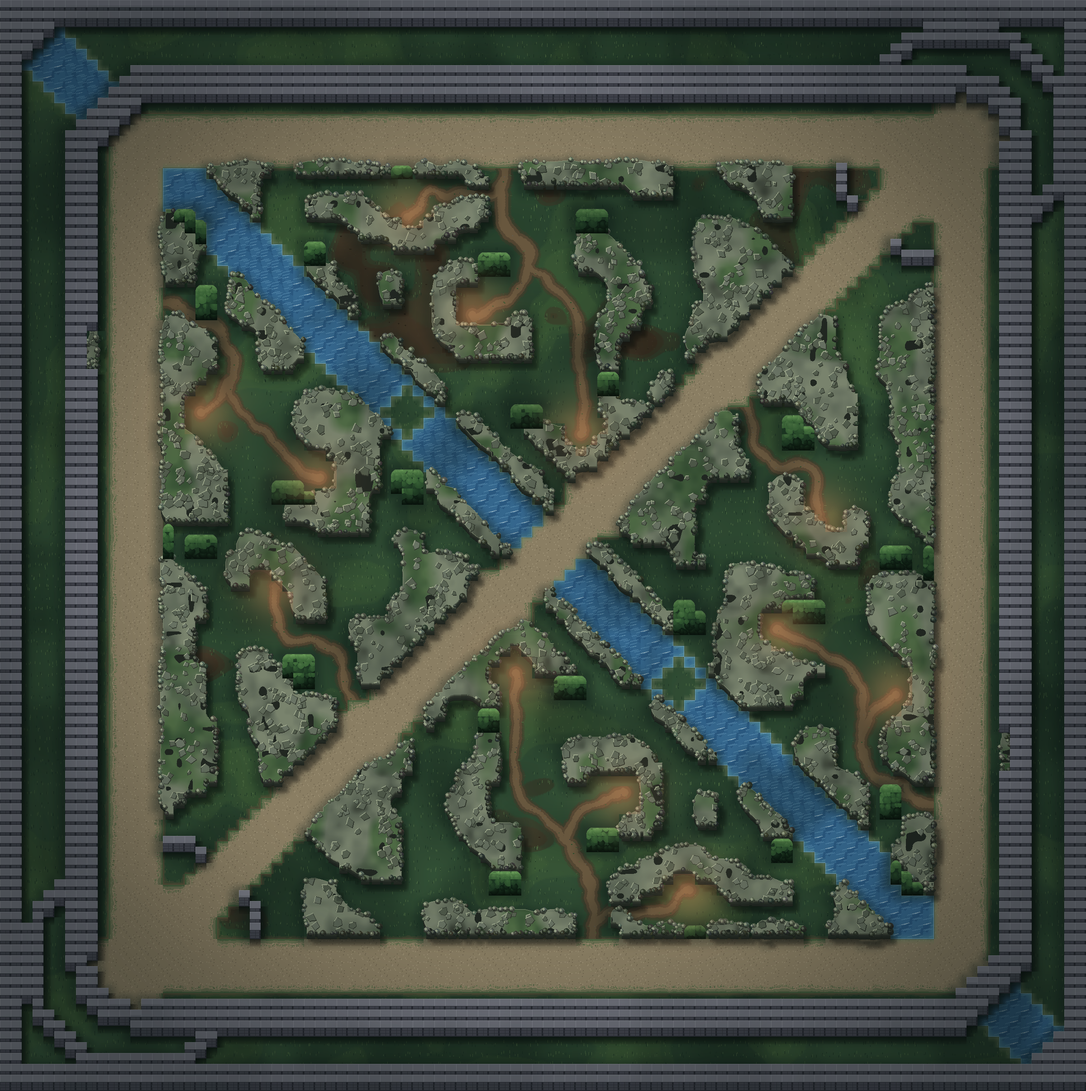
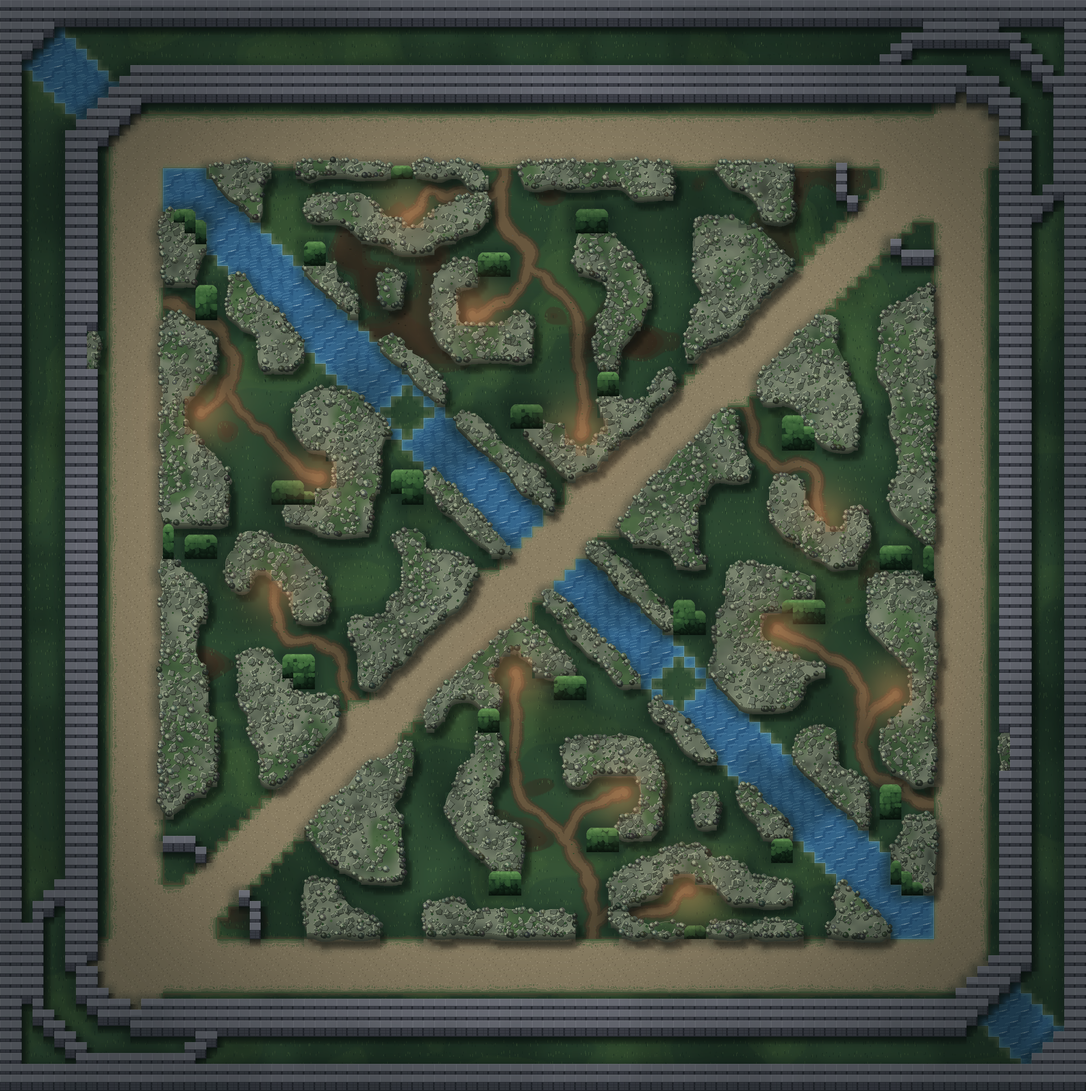
Muri di giungla: via le macchie nere, basi/bordi curvi, texture di roccia piu densa
Correzioni alla silhouette dei muri di giungla:
1. Campo della maschera da DISCHI sovrapposti sui centri-muro invece che dai
   quadrati dei tile -> niente spigoli di griglia: basi dei pilastri e bordi
   inferiori ora curvi, seguono la maschera.
2. Rumore di soglia applicato SOLO nella fascia di bordo (interno sempre pieno,
   esterno sempre vuoto) -> spariscono le macchie nere / fessure interne che
   sembravano buchi. Parete 2.5D e avvallamenti in tono di roccia, non neri;
   tolto il contatto nero (lo da gia il layer ombre).
3. Densita' della vecchia texture ripristinata: tante faccette spigolose
   (piatti + crepe), massi tondi in rilievo e fiocchi di muschio sulla cima.

La collisione resta sulla griglia (clamp a mezzo tile). Muro di confine in
pietra e cespugli invariati. Build 3v3 ~8s / 5v5 ~17s, RAM invariata.

Screenshot: screenshots/step_9.png (diagonale lungo il fiume) e step_9_over.png.

diff --git a/game/map_renderer.py b/game/map_renderer.py
@@ -532,20 +532,19 @@ class MapRenderer:
             return None
         s = max(2, ts // 4)
         hl = (H + s - 1) // s; wl = (W + s - 1) // s
-        cyl = np.minimum((np.arange(hl) * s) // ts, Ht - 1)
-        cxl = np.minimum((np.arange(wl) * s) // ts, Wt - 1)
-        sq = tm[cyl][:, cxl].astype(np.float32)          # quadrati (hl,wl)
-        # centri-muro a bassa risoluzione -> distanza (per blob tondi + clamp).
+        # Campo da DISCHI sui centri-muro (NON dai quadrati dei tile): l'unione
+        # di dischi sovrapposti non ha spigoli di griglia, cosi niente lati dritti
+        # residui (le basi dei pilastri e i bordi inferiori diventano curvi).
         ys, xs = np.where(tm)
         cmask = np.zeros((hl, wl), bool)
         ccx = np.clip(((xs + 0.5) * ts / s).astype(int), 0, wl - 1)
         ccy = np.clip(((ys + 0.5) * ts / s).astype(int), 0, hl - 1)
         cmask[ccy, ccx] = True
-        dist = self._dist_lo(cmask, int(math.ceil(ts * 1.1 / s)))
-        core = dist <= (ts * 0.40 / s)                   # sempre pieno (blob tondi)
-        allowed = dist <= (ts * 0.98 / s)                # sporgenza max ~mezzo tile
-        field = np.maximum(sq, core.astype(np.float32))
-        bf = self._sep_blur(field, max(1, int(ts * 0.6 / s)), passes=3)
+        dist = self._dist_lo(cmask, int(math.ceil(ts * 1.25 / s)))
+        disc = (dist <= (ts * 0.72 / s)).astype(np.float32)   # dischi uniti
+        core = dist <= (ts * 0.42 / s)                   # sempre pieno (blob tondi)
+        allowed = dist <= (ts * 1.0 / s)                 # sporgenza max ~mezzo tile
+        bf = self._sep_blur(disc, max(1, int(ts * 0.55 / s)), passes=3)
         # upscala bf a piena risoluzione (una volta), poi soglia+rumore a strisce.
         bf_full = self._upscale(bf, W, H, s)
         core_full = core[np.minimum(np.arange(H) // s, hl - 1)][:, np.minimum(np.arange(W) // s, wl - 1)]
@@ -557,7 +556,12 @@ class MapRenderer:
             y1 = min(H, y0 + STRIP)
             TYf = (np.arange(y0, y1, dtype=np.float32) / ts)[:, None]
             nz = _np_vnoise(TXf / 1.5 + 11.0, TYf / 1.5 + 7.0) - 0.5     # [-0.5,0.5]
-            thr = (bf_full[y0:y1] + nz * 0.33) > 0.5
+            b = bf_full[y0:y1]
+            # Rumore SOLO nella fascia di bordo: l'interno (b alto) resta SEMPRE
+            # pieno -> niente buchi/fessure nere dentro il muro; l'esterno (b
+            # basso) resta vuoto. Il contorno e' irregolare solo al bordo.
+            thr = np.where(b >= 0.80, True,
+                           np.where(b <= 0.22, False, (b + nz * 0.33) > 0.5))
             solid[y0:y1] = (thr | core_full[y0:y1]) & allow_full[y0:y1]
         return solid
 
@@ -592,8 +596,8 @@ class MapRenderer:
         (solo i blocchi con contenuto)."""
         import pygame.surfarray as sa
         from game.renderer import (JW_TOP, JW_TOP_HI, JW_TOP_SH, JW_MOSS,
-                                    JW_MOSS_DK, JW_CLIFF, JW_CLIFF_DK, JW_CLIFF_HI,
-                                    JW_HILITE, JW_RIM, JW_EDGE_SH, JW_CONTACT)
+                                    JW_MOSS_DK, JW_CLIFF, JW_CLIFF_HI,
+                                    JW_HILITE, JW_RIM, JW_EDGE_SH)
         ts = self.tile_size; top = self._top; Hh = self._H
         H, W = solid.shape
         Hf = H + Hh
@@ -607,11 +611,13 @@ class MapRenderer:
         # --- (1) CIMA: base roccia mottled + muschio, ritagliata alla sagoma ---
         TOPc = np.array(JW_TOP, np.float32); TOPhi = np.array(JW_TOP_HI, np.float32)
         TOPsh = np.array(JW_TOP_SH, np.float32); MOSSc = np.array(JW_MOSS, np.float32)
-        MOSSdk = np.array(JW_MOSS_DK, np.float32); CRACK = np.array(JW_CLIFF_DK, np.float32)
+        MOSSdk = np.array(JW_MOSS_DK, np.float32)
         top_surf = pygame.Surface((W, H), pygame.SRCALPHA)
         v3 = sa.pixels3d(top_surf)
         # Noise calcolato a BASSA risoluzione (STEP) e interpolato bilineare a
         # strisce (come _build_floor): stessa resa, molto piu veloce del per-pixel.
+        # Niente macchie scure "piene" (sembravano buchi): la base e' solo roccia
+        # chiaro/scuro + muschio; crepe e volume li danno le faccette (sotto).
         STEP = 4
         wl = W // STEP + 2; hl = H // STEP + 2
         TXl = (np.arange(wl, dtype=np.float32) * STEP / ts)[None, :]
@@ -619,14 +625,13 @@ class MapRenderer:
         mott_l = (_np_vnoise(TXl / 2.2, TYl / 2.2) * 0.6
                   + _np_vnoise(TXl / 0.8 + 5, TYl / 0.8 + 5) * 0.4).astype(np.float32)
         mo_l = _np_vnoise(TXl / 3.2 + 20, TYl / 3.2 + 20).astype(np.float32)
-        crk_l = _np_vnoise(TXl / 1.1 + 70, TYl / 1.1 + 70).astype(np.float32)
         fx = np.arange(W, dtype=np.float32) / STEP
         x0 = np.floor(fx).astype(np.int64); x1 = np.minimum(x0 + 1, wl - 1)
         wx = (fx - x0)[None, :]
 
         def up_x(f):
             return f[:, x0] * (1 - wx) + f[:, x1] * wx
-        mott_x = up_x(mott_l); mo_x = up_x(mo_l); crk_x = up_x(crk_l)
+        mott_x = up_x(mott_l); mo_x = up_x(mo_l)
         STRIP = 300
         for y0 in range(0, H, STRIP):
             y1 = min(H, y0 + STRIP)
@@ -634,28 +639,41 @@ class MapRenderer:
             y0i = np.floor(fy).astype(np.int64); y1i = np.minimum(y0i + 1, hl - 1)
             wy = (fy - y0i)[:, None]
             mott = mott_x[y0i] * (1 - wy) + mott_x[y1i] * wy
-            t = np.clip((mott - 0.28) / 0.42, 0.0, 1.0)[..., None]
+            t = np.clip((mott - 0.25) / 0.45, 0.0, 1.0)[..., None]
             col = TOPc + (TOPhi - TOPc) * t              # roccia illuminata
-            col = col + (TOPsh - col) * np.clip((0.3 - mott) / 0.3, 0, 1)[..., None]  # avvallamenti scuri
+            col = col + (TOPsh - col) * np.clip((0.26 - mott) / 0.32, 0, 1)[..., None]  # avvallamenti (non neri)
             mo = mo_x[y0i] * (1 - wy) + mo_x[y1i] * wy
             mk = np.clip((mo - 0.56) / 0.22, 0.0, 1.0)[..., None]
             moss = MOSSdk + (MOSSc - MOSSdk) * t         # muschio chiaro/scuro
             col = col + (moss - col) * (mk * 0.8)
-            cr = (crk_x[y0i] * (1 - wy) + crk_x[y1i] * wy < 0.16)[..., None]  # fessure
-            col = np.where(cr, CRACK, col)
             v3[:, y0:y1, :] = np.clip(col, 0, 255).astype(np.uint8).transpose(1, 0, 2)
         del v3
         va = sa.pixels_alpha(top_surf); va[:] = (solid.T.astype(np.uint8) * 255); del va
-        # Faccette di roccia sparse sulla cima (volume), ritagliate alla sagoma.
+        # Dettaglio di roccia sulla cima (densita' della vecchia texture): tante
+        # FACCETTE spigolose (danno piatti + crepe nette + volume), qualche MASSO
+        # tondo in rilievo e fiocchi di MUSCHIO. Tutto ritagliato alla sagoma.
         ys_s, xs_s = np.where(solid)
         if len(xs_s):
             frng = random.Random(0xF00D ^ (len(xs_s) & 0xFFFFFFFF))
-            nf = min(3500, max(6, int(len(xs_s) / (ts * ts) * 0.9)))
+            ntile = len(xs_s) / float(ts * ts)
+            nf = min(16000, max(10, int(ntile * 2.4)))      # ~2-3 faccette per tile
             for _ in range(nf):
                 j = frng.randrange(len(xs_s))
                 fx = int(xs_s[j]); fy = int(ys_s[j])
-                fr = frng.randint(max(3, ts // 4), max(5, int(ts * 0.5)))
+                fr = frng.randint(max(2, ts // 5), max(4, int(ts * 0.42)))
                 p._rock_facet(top_surf, fx, fy, fr, frng, JW_TOP, JW_HILITE, JW_TOP_SH)
+            nb = min(4000, max(3, int(ntile * 0.5)))         # massi in rilievo
+            for _ in range(nb):
+                j = frng.randrange(len(xs_s))
+                bx = int(xs_s[j]); by = int(ys_s[j])
+                br = frng.randint(max(2, ts // 5), max(4, int(ts * 0.34)))
+                p._round_rock(top_surf, bx, by, br, frng, JW_TOP, JW_HILITE, JW_TOP_SH)
+            nm = min(6000, max(4, int(ntile * 1.2)))         # fiocchi di muschio
+            for _ in range(nm):
+                j = frng.randrange(len(xs_s))
+                mx = int(xs_s[j]); my = int(ys_s[j])
+                mc = JW_MOSS if frng.random() < 0.6 else JW_MOSS_DK
+                pygame.draw.circle(top_surf, mc, (mx, my), frng.randint(1, max(1, ts // 8)))
             va2 = sa.pixels_alpha(top_surf)
             np.minimum(va2, solid.T.astype(np.uint8) * 255, out=va2); del va2
 
@@ -670,27 +688,19 @@ class MapRenderer:
             depth[k:H + k][newly] = k
         solid_full = np.zeros((Hf, W), bool); solid_full[:H] = solid
         cliff &= ~solid_full
-        CL = np.array(JW_CLIFF, np.float32); CLdk = np.array(JW_CLIFF_DK, np.float32)
-        CLhi = np.array(JW_CLIFF_HI, np.float32)
+        # Parete in tono di ROCCIA (non nera, cosi non sembra un buco): spalla
+        # illuminata in alto (CLhi) che sfuma al grigio-pietra JW_CLIFF in basso.
+        CL = np.array(JW_CLIFF, np.float32); CLhi = np.array(JW_CLIFF_HI, np.float32)
         ms = pygame.Surface((W, Hf), pygame.SRCALPHA)
         c3 = sa.pixels3d(ms); ca = sa.pixels_alpha(ms)
         dfrac = (depth.astype(np.float32) / max(1, Hh))[..., None]
-        clrgb = (CL + (CLdk - CL) * np.clip(dfrac * 1.5, 0, 1))   # piu scura in basso
-        clrgb = np.where((depth == 1)[..., None], CLhi, clrgb)    # spalla illuminata
+        clrgb = CLhi + (CL - CLhi) * np.clip(dfrac * 1.1, 0, 1)
         cmask3 = cliff[..., None]
         c3[:] = np.where(cmask3, clrgb, 0).astype(np.uint8).transpose(1, 0, 2)
         ca[:] = (cliff.T.astype(np.uint8) * 255)
         del c3, ca
         # cima sopra la parete.
         ms.blit(top_surf, (0, 0))
-        # ombra di contatto scura dove la parete tocca terra (ultima riga utile).
-        base = cliff & ~np.vstack([cliff[1:], np.zeros((1, W), bool)])
-        if base.any():
-            cs = pygame.Surface((W, Hf), pygame.SRCALPHA)
-            cb = sa.pixels3d(cs); cab = sa.pixels_alpha(cs)
-            cb[base.T] = (0, 0, 0); cab[base.T] = JW_CONTACT[3]
-            del cb, cab
-            ms.blit(cs, (0, 0))
 
         # --- (3) RIM chiaro/scuro lungo il NUOVO contorno (definizione) -------
         rim = pygame.Surface((W, H), pygame.SRCALPHA)

diff --git a/CLAUDE.md b/CLAUDE.md
@@ -128,34 +128,44 @@ Passaggi completati:
   _jungle_solid/_build_jungle_walls/_build_jungle_shadow; _build_ao ora prende la
   silhouette). La SAGOMA non e' piu per-tile: si ricava da una maschera binaria e
   si ammorbidisce, cosi diagonali e muri isolati non mostrano la griglia.
-  _jungle_solid: (1) maschera binaria dei TILE muro-giungla; (2) a bassa
-  risoluzione (STEP ts/4) blur ~gaussiano (3 box blur separabili via somme
-  cumulate, _sep_blur, raggio ~0.6 tile) su (quadrati UNION dischi ai centri),
-  upscalata bilineare a piena risoluzione, poi SOGLIA 0.5 col rumore di bordo
-  (_np_vnoise, ampiezza 0.33) -> diagonali vere, angoli tondi, contorno
-  IRREGOLARE pixel-art (soglia booleana, niente AA). CLAMP mezzo tile (la
-  COLLISIONE resta sui tile): distanza low-res dai centri-muro (_dist_lo); ogni
-  cella entro ~0.4 tile da un centro resta piena (i muri piccoli diventano BLOB
-  tondi, non spariscono, non rettangoli) e la sagoma non sborda oltre ~mezzo tile
-  (allowed, dist<=0.98 tile dal centro). _build_jungle_walls riempie la
-  silhouette: cima = roccia mottled (rumore low-res a strisce, lerp
-  JW_TOP..JW_TOP_HI + avvallamenti JW_TOP_SH + muschio JW_MOSS/_DK + fessure
-  JW_CLIFF_DK) ritagliata alla sagoma, con FACCETTE _rock_facet sparse per dare
-  volume; MASSI _round_rock lungo il NUOVO contorno (chiari verso N/O, scuri
-  verso S/E); PARETE 2.5D (cliff) che segue il bordo sud della sagoma (depth per
-  colonna, spalla JW_CLIFF_HI in alto, piu scura in basso, ombra di contatto alla
-  base) estrusa su di H. Tutto su un'unica Surface a piena mappa, poi blit LAZY
-  per chunk (solo i blocchi con alpha). _build_jungle_shadow: ombra proiettata a
-  SUD-EST dalla SILHOUETTE (non dai tile), accumulata a bassa risoluzione con
-  alfa calante e upscalata. _build_ao: l'occupazione low-res viene dalla
-  silhouette (+ cespugli e pietra per-tile) -> l'AO segue il contorno curvo, non
-  piu rettangoli allineati ai tile (risolve il "pilastro" con AO quadrata). Il
-  MURO DI CONFINE in pietra (TILE_WALL) e i CESPUGLI restano per-tile come prima.
+  _jungle_solid: (1) maschera binaria dei TILE muro-giungla; (2) campo da DISCHI
+  sovrapposti sui centri-muro (NON dai quadrati dei tile: l'unione di dischi non
+  ha spigoli di griglia -> niente lati dritti/basi rettangolari residue), blur
+  ~gaussiano a bassa risoluzione (STEP ts/4; 3 box blur separabili via somme
+  cumulate, _sep_blur, raggio ~0.55 tile), upscalato bilineare a piena
+  risoluzione, poi SOGLIA 0.5. Il rumore di bordo (_np_vnoise, ampiezza 0.33) si
+  applica SOLO nella fascia di transizione (0.22<bf<0.80): l'INTERNO (bf alto)
+  resta SEMPRE pieno e l'ESTERNO (bf basso) sempre vuoto -> contorno irregolare
+  pixel-art SOLO al bordo, e NIENTE buchi/fessure nere dentro il muro. CLAMP
+  mezzo tile (la COLLISIONE resta sui tile): distanza low-res dai centri-muro
+  (_dist_lo); ogni cella entro ~0.42 tile da un centro resta piena (i muri
+  piccoli diventano BLOB tondi, non spariscono ne restano rettangoli) e la sagoma
+  non sborda oltre ~mezzo tile (allowed, dist<=1.0 tile dal centro).
+  _build_jungle_walls riempie la silhouette: cima = roccia mottled chiaro/scuro
+  (rumore low-res a strisce, lerp JW_TOP..JW_TOP_HI, avvallamenti verso JW_TOP_SH,
+  NON neri) + muschio JW_MOSS/_DK, ritagliata alla sagoma; sopra, per la DENSITA'
+  della vecchia texture: tante FACCETTE spigolose _rock_facet (~2-3 per tile:
+  piatti + crepe nette + volume), qualche MASSO tondo _round_rock in rilievo e
+  fiocchi di muschio. MASSI _round_rock anche lungo il NUOVO contorno (chiari
+  verso N/O, scuri verso S/E). PARETE 2.5D (cliff) che segue il bordo sud della
+  sagoma (depth per colonna) in tono di ROCCIA (spalla JW_CLIFF_HI in alto ->
+  JW_CLIFF in basso, NON nera, cosi non sembra un buco; niente contatto nero: il
+  contatto a terra lo da gia il layer ombre). Tutto su un'unica Surface a piena
+  mappa, poi blit LAZY per chunk (solo i blocchi con alpha). _build_jungle_shadow:
+  ombra proiettata a SUD-EST dalla SILHOUETTE (non dai tile), accumulata a bassa
+  risoluzione con alfa calante e upscalata. _build_ao: l'occupazione low-res
+  viene dalla silhouette (+ cespugli e pietra per-tile) -> l'AO segue il contorno
+  curvo, non piu rettangoli allineati ai tile (risolve il "pilastro" con AO
+  quadrata). Il MURO DI CONFINE in pietra (TILE_WALL) e i CESPUGLI restano
+  per-tile come prima.
   Rimossi i vecchi builder per-tile dei jungle wall (_jwall_surf/_build_jwall) e
   l'autotiling (_carve_autotile/_autotile_footprint/_mask8); _rock_facet/
   _round_rock/_jitter restano, riusati dalla silhouette. Costo build una-tantum:
-  3v3 ~8s, 5v5 ~18s (noise a bassa risoluzione). Screenshot: screenshots/step_9.png
-  (diagonale lungo il fiume) e step_9_over.png (minimappa).
+  3v3 ~8s, 5v5 ~17s (noise a bassa risoluzione). Correzioni post-revisione (vedi
+  sopra: dischi anziche quadrati, rumore solo al bordo, cliff/base in tono di
+  roccia, densita' di faccette/massi/muschio): niente piu macchie nere interne,
+  basi/bordi curvi che seguono la maschera, superficie meno piatta. Screenshot:
+  screenshots/step_9.png (diagonale lungo il fiume) e step_9_over.png (minimappa).
 
 Scelte tecniche importanti:
 - canopy resta RISERVATO e VUOTO; lighting_overlay ora porta il velo d'atmosfera
